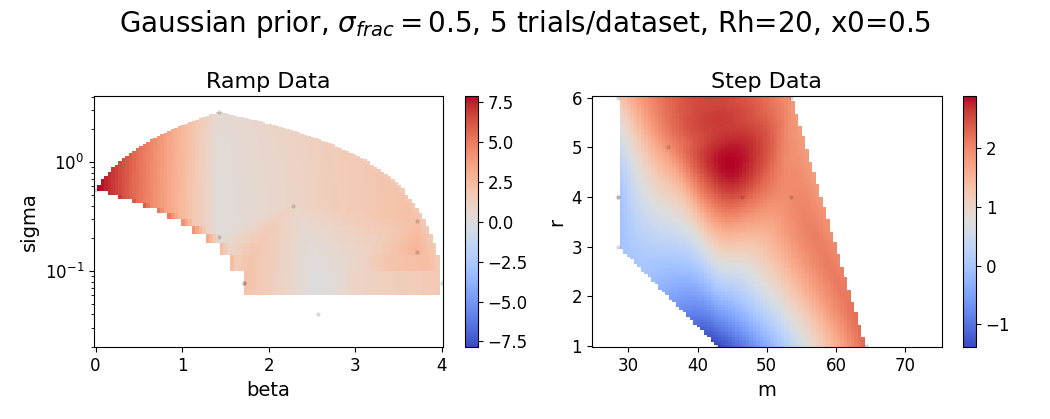
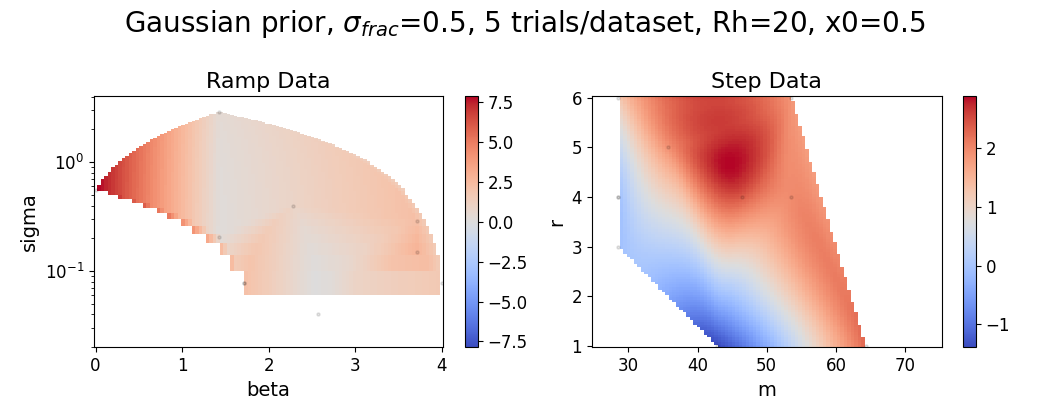
add n trials plot 3.2

Changed region(s): [[0.0914, 0.031, 0.8838, 0.0931]]

diff --git a/w3_22.py b/w3_22.py
@@ -7,6 +7,7 @@ from scipy.interpolate import griddata
 import w3_2
 import w3_utils
 from models_hmm import RampModelHMM
+import pandas as pd
 
 
 var = lambda a, b, frac: ((b-a) * frac) ** 2
@@ -26,12 +27,14 @@ def run_and_plot_selection(filename, ramp_grid, step_grid, gen_ramp_post, gen_st
     else:
         print(f"Found existing results file: {filename}")
 
+
     heatmap_savename = f'plots/task_3_2_2_{os.path.basename(filename)[:-4]}_heatmap.png'
     confmat_savename = f'plots/task_3_2_2_{os.path.basename(filename)[:-4]}_confmat.png'
     plot_title = f'{plot_title_prefix}, {n_trials} trials/dataset, Rh={Rh}, x0={x0}'
     
-    w3_2.plot_heatmap(fn, plot_title, save_name=heatmap_savename, show=False)
-    w3_2.plot_confusion_matrix(fn, plot_title, save_name=confmat_savename, show=False)
+    w3_2.plot_heatmap(filename, plot_title, save_name=heatmap_savename, show=False)
+    ramp_accuracy, step_accuracy = w3_2.plot_confusion_matrix(filename, plot_title, save_name=confmat_savename, show=False)
+    return ramp_accuracy, step_accuracy
 
 
 if __name__ == "__main__":
@@ -80,9 +83,12 @@ if __name__ == "__main__":
 
 
 
-    N_DATASETS = 10
+    N_DATASETS = 50
     N_TRIALS_LIST = [5, 10, 15, 20, 30, 50]
     sigma_fract_list = [0.125, 0.25, 0.5]
+    accuracies = {'Uniform': []}
+    for sf in sigma_fract_list:
+        accuracies[f'Gaussian, SF={sf}'] = []
 
     for N_TRIALS in N_TRIALS_LIST:
         print("--------------------------------")
@@ -91,7 +97,7 @@ if __name__ == "__main__":
         # TEST 1
 
         fn = "./results/UU_D" + str(N_DATASETS) + "_T" + str(N_TRIALS) + ".csv"
-        run_and_plot_selection(
+        ramp_accuracy, step_accuracy = run_and_plot_selection(
             filename=fn,
             ramp_grid=ramp_params_grid,
             step_grid=step_params_grid,
@@ -105,6 +111,7 @@ if __name__ == "__main__":
             Rh=RH,
             x0=X0
         )
+        accuracies['Uniform'].append((ramp_accuracy+step_accuracy)/2)
 
         # TEST 2
 
@@ -134,7 +141,7 @@ if __name__ == "__main__":
 
             fn = "./results/GU_D" + str(N_DATASETS) + "_T" + str(N_TRIALS) + "_SF" + str(STD_FRACTION) + ".csv"
 
-            run_and_plot_selection(
+            ramp_accuracy, step_accuracy = run_and_plot_selection(
                 filename=fn,
                 ramp_grid=ramp_params_grid,
                 step_grid=step_params_grid,
@@ -144,7 +151,21 @@ if __name__ == "__main__":
                 inf_step_post=gauss_step_posterior,
                 n_datasets=N_DATASETS,
                 n_trials=N_TRIALS,
-                plot_title_prefix=r'Gaussian prior, $\sigma_{frac}=0.5$',
+                plot_title_prefix=r'Gaussian prior, $\sigma_{frac}$=' + str(STD_FRACTION),
                 Rh=RH,
                 x0=X0
             )
+            accuracies[f'Gaussian, SF={STD_FRACTION}'].append((ramp_accuracy+step_accuracy)/2)
+
+    plt.figure(figsize=(10, 6))
+    for label, accs in accuracies.items():
+        plt.plot(N_TRIALS_LIST, accs, marker='o', linestyle='-', label=label)
+    
+    plt.xlabel("Number of Trials (N_TRIALS)")
+    plt.ylabel("Overall HMM Accuracy")
+    plt.title("HMM Accuracy vs. Number of Trials for Different Priors")
+    plt.legend()
+    plt.grid(True)
+    plt.ylim(0.45, 1.05)
+    plt.savefig('plots/task_3_2_2_accuracy_vs_n_trials.png')
+    plt.show()
